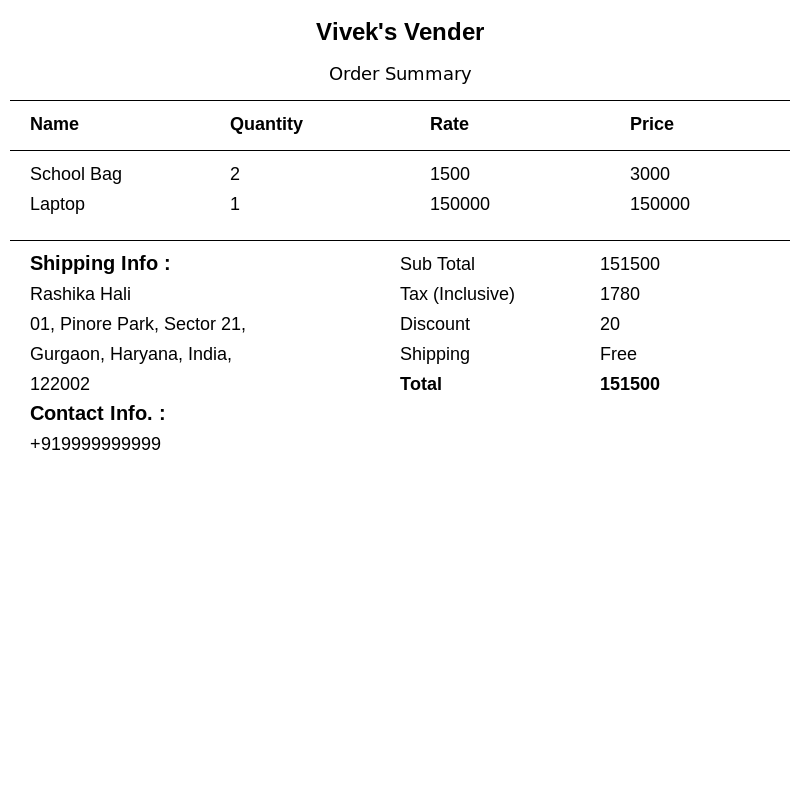
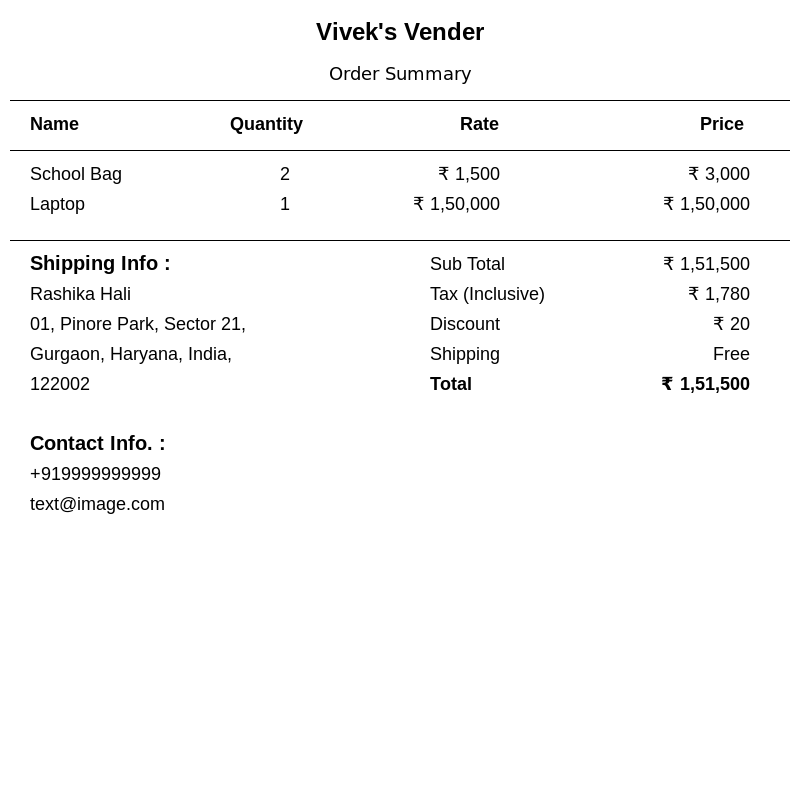
Update the image api

diff --git a/Track/api/orderImg.js b/Track/api/orderImg.js
@@ -70,21 +70,33 @@ router.post("/", (req, res) => {
   mainCtx.textAlign = "left";
   mainCtx.fillText("Name", 30, yCord + 30);
   mainCtx.fillText("Quantity", 230, yCord + 30);
-  mainCtx.fillText("Rate", 430, yCord + 30);
-  mainCtx.fillText("Price", 630, yCord + 30);
+  mainCtx.fillText("Rate", 460, yCord + 30);
+  mainCtx.fillText("Price", 700, yCord + 30);
   yCord = yCord + 50;
   mainCtx.fillRect(10, yCord, 780, 1);
   yCord = yCord + 30;
 
   for (let i = 0; i < data.items.length; i++) {
     mainCtx.fillStyle = "#000";
+    mainCtx.textAlign = "left";
     mainCtx.font = "18px Arial";
     mainCtx.fillText(data.items[i].name, 30, yCord);
-    mainCtx.fillText(data.items[i].quantity, 230, yCord);
-    mainCtx.fillText(data.items[i].rate, 430, yCord);
+    mainCtx.textAlign = "right";
     mainCtx.fillText(
-      parseInt(data.items[i].rate) * parseInt(data.items[i].quantity),
-      630,
+      data.items[i].quantity.toLocaleString("en-IN"),
+      290,
+      yCord
+    );
+    mainCtx.fillText(
+      `₹ ${data.items[i].rate.toLocaleString("en-IN")}`,
+      500,
+      yCord
+    );
+    mainCtx.fillText(
+      `₹ ${(
+        parseInt(data.items[i].rate) * parseInt(data.items[i].quantity)
+      ).toLocaleString("en-IN")}`,
+      750,
       yCord
     );
 
@@ -94,6 +106,7 @@ router.post("/", (req, res) => {
   mainCtx.fillRect(10, yCord, 780, 1);
   yCord = yCord + 30;
 
+  mainCtx.textAlign = "left";
   mainCtx.font = "bold 20px Arial";
   mainCtx.fillText("Shipping Info :", 30, yCord);
   yCord = yCord + 30;
@@ -109,43 +122,55 @@ router.post("/", (req, res) => {
   yCord = yCord + 30;
   if (address[2]) mainCtx.fillText(address[2], 30, yCord);
 
-  yCord = yCord + 30;
+  yCord = yCord + 60;
   mainCtx.font = "bold 20px Arial";
   mainCtx.fillText("Contact Info. :", 30, yCord);
   yCord = yCord + 30;
   mainCtx.font = "18px Arial";
   mainCtx.fillText(data.shipInfo.contactNumber, 30, yCord);
+  yCord = yCord + 30;
+  mainCtx.fillText(data.shipInfo.email, 30, yCord);
 
-  yCord = yCord - 180;
-  mainCtx.fillText("Sub Total", 400, yCord);
-  mainCtx.fillText(data.subTotal, 600, yCord);
+  yCord = yCord - 240;
+  mainCtx.fillText("Sub Total", 430, yCord);
+  mainCtx.textAlign = "right";
+  mainCtx.fillText(`₹ ${data.subTotal.toLocaleString("en-IN")}`, 750, yCord);
   yCord = yCord + 30;
 
-  mainCtx.fillText("Tax (Inclusive)", 400, yCord);
-  mainCtx.fillText(data.taxInfo, 600, yCord);
+  mainCtx.textAlign = "left";
+  mainCtx.fillText("Tax (Inclusive)", 430, yCord);
+  mainCtx.textAlign = "right";
+  mainCtx.fillText(`₹ ${data.taxInfo.toLocaleString("en-IN")}`, 750, yCord);
   yCord = yCord + 30;
 
-  mainCtx.fillText("Discount", 400, yCord);
-  mainCtx.fillText(data.discount, 600, yCord);
+  mainCtx.textAlign = "left";
+  mainCtx.fillText("Discount", 430, yCord);
+  mainCtx.textAlign = "right";
+  mainCtx.fillText(`₹ ${data.discount.toLocaleString("en-IN")}`, 750, yCord);
   yCord = yCord + 30;
 
-  mainCtx.fillText("Shipping", 400, yCord);
+  mainCtx.textAlign = "left";
+  mainCtx.fillText("Shipping", 430, yCord);
+  mainCtx.textAlign = "right";
   mainCtx.fillText(
-    data.freeShip === "free" ? "Free" : data.freeShip,
-    600,
+    data.freeShip === "free"
+      ? "Free"
+      : `₹ ${data.freeShip.toLocaleString("en-IN")}`,
+    750,
     yCord
   );
   yCord = yCord + 30;
 
+  mainCtx.textAlign = "left";
   mainCtx.font = "bold 18px Arial";
-  mainCtx.fillText("Total", 400, yCord);
-  mainCtx.fillText(data.total, 600, yCord);
+  mainCtx.fillText("Total", 430, yCord);
+  mainCtx.textAlign = "right";
+  mainCtx.fillText(`₹ ${data.total.toLocaleString("en-IN")}`, 750, yCord);
   yCord = yCord + 30;
 
   const buffer = mainCanvas.toBuffer("image/png");
   fs.writeFileSync("./image.png", buffer);
 
-  // res.writeHead(200, { "Content-type": "image/png" });
   res.status(200).sendFile(resolve("image.png"));
 });
 
